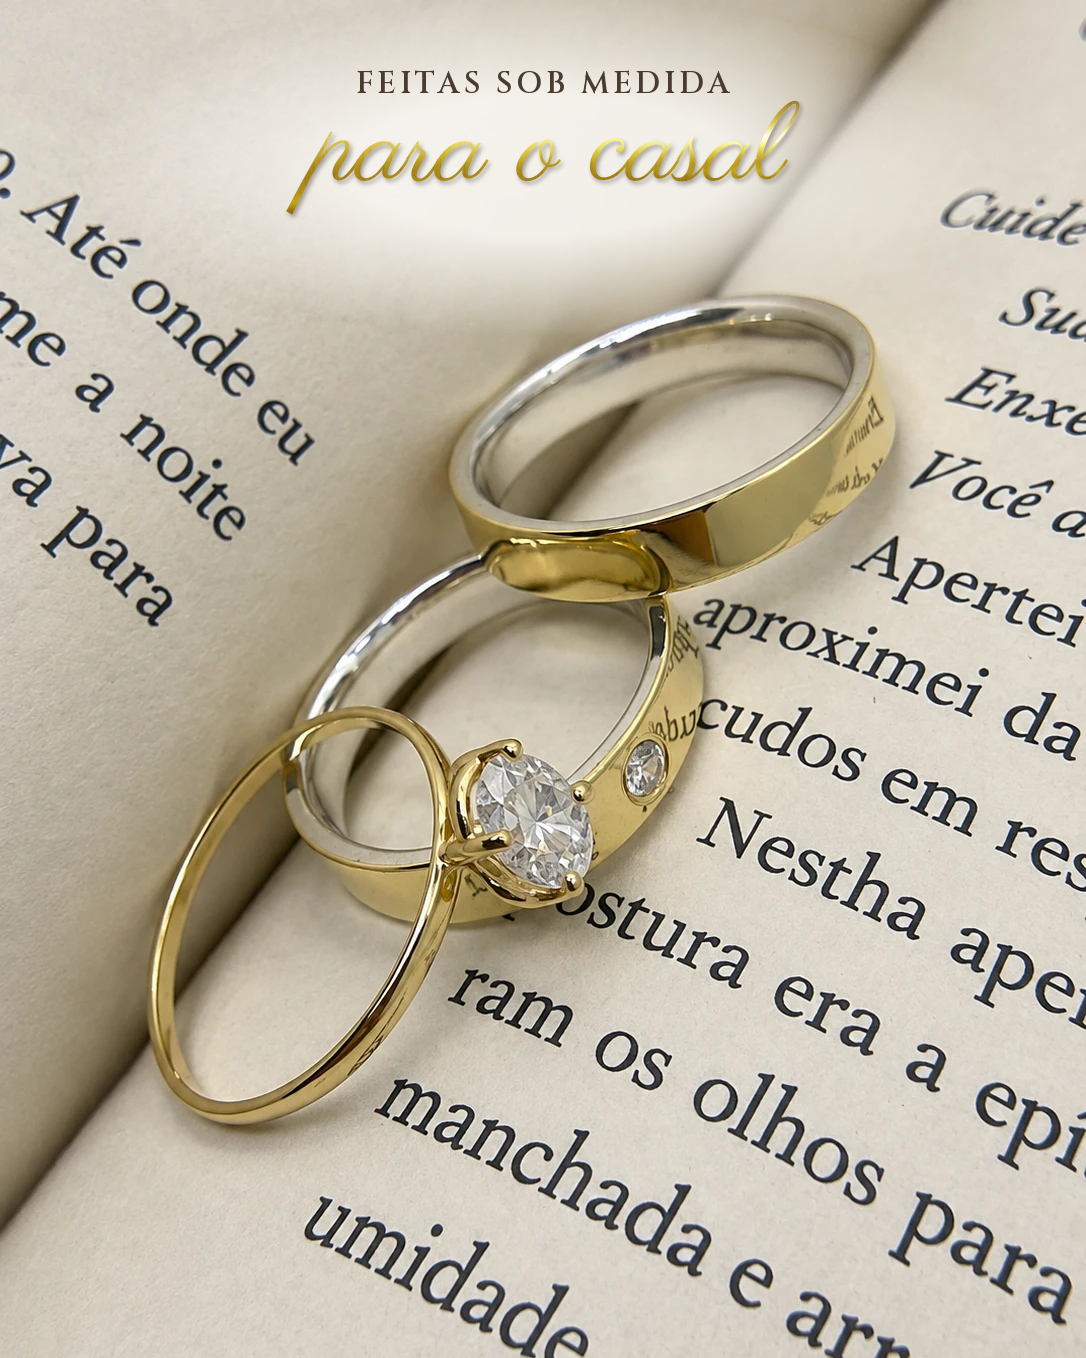
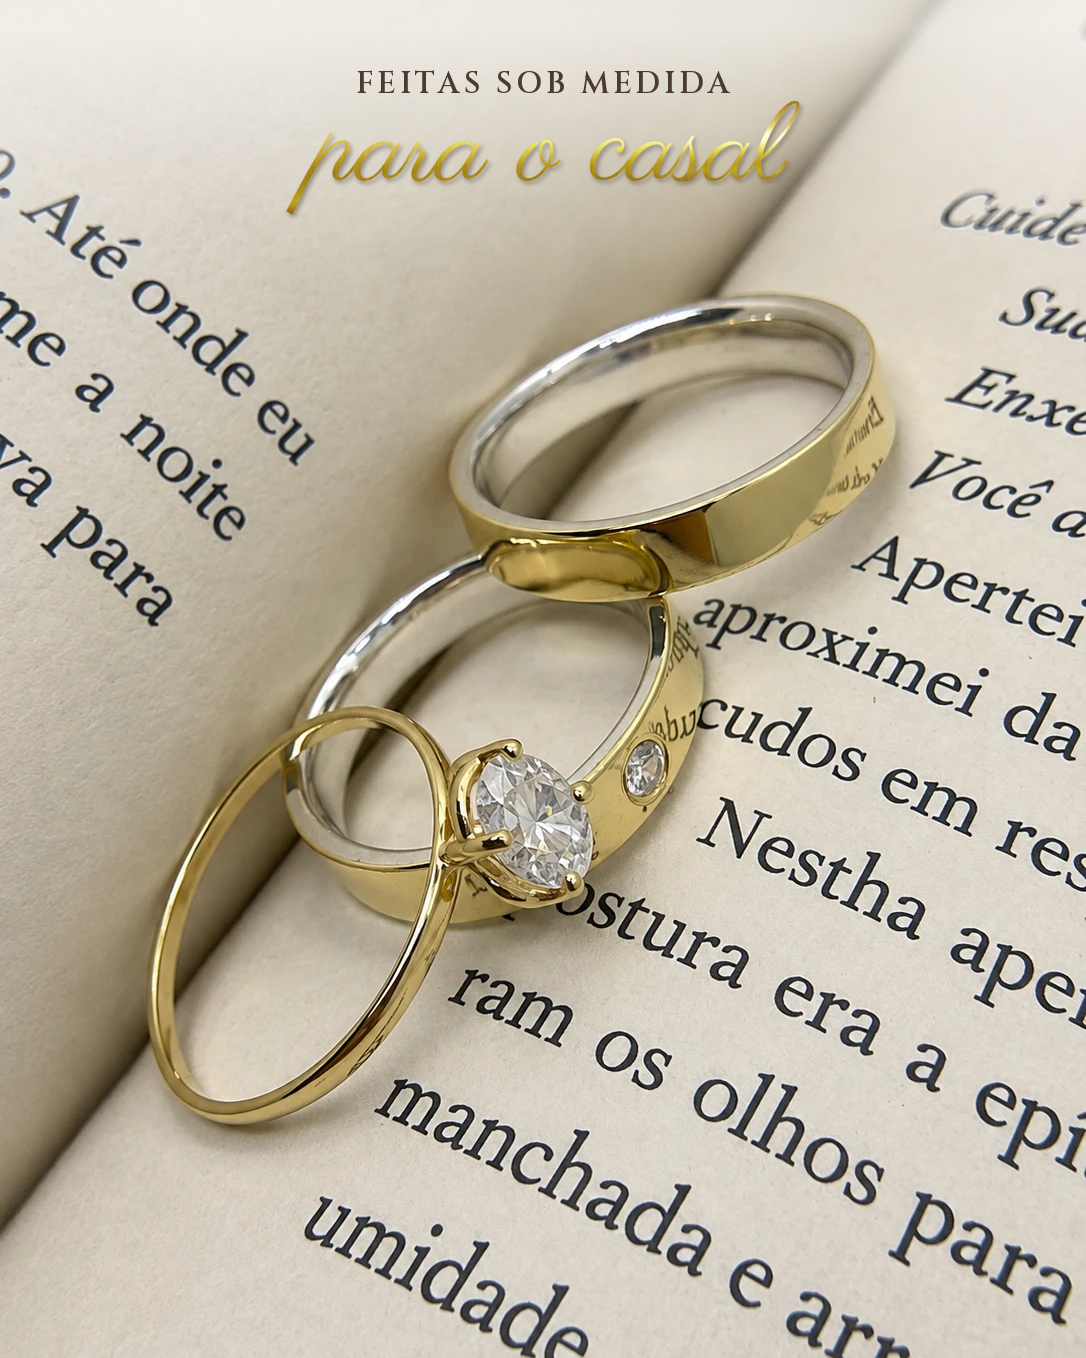
Carrossel das alianças: degradê leve em cima e embaixo, textos reposicionados
Claude-Session: https://claude.ai/code/session_01RLP9fKwVsDi588D8MrznBA

diff --git a/aliancas-revestidas/aliancas_rev.py b/aliancas-revestidas/aliancas_rev.py
@@ -31,22 +31,22 @@ def swipe(img):
     sw = solid_text('ARRASTE PARA O LADO  →', sans(18, 700), LABEL_COLOR, 2); paste(img, sw, W - M - ink_size(sw)[0], H - 66)
 
 # 1 — the pair + price
-s1 = base(53, 45); glow(s1, 290, 180, 440, 210); glow(s1, 300, 1205, 470, 200); glow(s1, 905, 1295, 240, 70)
+s1 = base(53, 45); band(s1, 0.02, 0.24, top=True, strength=0.72); band(s1, 0.77, 0.88, strength=0.92)
 title(s1, 'PAR DE', 'Alianças')
-sp = solid_text('REVESTIDAS · 4 MM · GARANTIA VITALÍCIA', caps_font(20, 600), BR, 2); paste(s1, sp, M, 1090); y = 1090 + ink_size(sp)[1]
-price_block(s1, M, y + 22, 'R$ 2.250', 'ou 10x de R$ 250,00 sem juros', size=56)
+sp = solid_text('REVESTIDAS · 4 MM · GARANTIA VITALÍCIA', caps_font(20, 600), BR, 2); paste(s1, sp, M, 1140); y = 1140 + ink_size(sp)[1]
+price_block(s1, M, y + 18, 'R$ 2.250', 'ou 10x de R$ 250,00 sem juros', size=54)
 swipe(s1); save_hq(s1, D + '01-par-de-aliancas.jpg')
 
 # 2 — with the solitaire: the full set
-s2 = base(52, 45); glow(s2, 270, 175, 400, 200); glow(s2, 320, 1225, 420, 130); glow(s2, 905, 1295, 240, 70)
+s2 = base(52, 45); band(s2, 0.02, 0.23, top=True, strength=0.72); band(s2, 0.80, 0.90, strength=0.92)
 title(s2, 'DO PEDIDO', 'ao altar', size=180)
-y = H - 175
+y = H - 140
 for t in ['Combine as alianças', 'com o seu solitário.']:
     lay = solid_text(t, caps_font(32, 500), INK, 1); paste(s2, lay, M, y); y += ink_size(lay)[1] + 12
 swipe(s2); save_hq(s2, D + '02-conjunto.jpg')
 
 # 3 — detail, made to measure
-s3 = base(55, 0); glow(s3, 543, 165, 470, 170)
+s3 = base(55, 0); band(s3, 0.02, 0.21, top=True, strength=0.72)
 y = 70
 lay = solid_text('FEITAS SOB MEDIDA', caps_font(30, 600), INK, 4); paste(s3, lay, W / 2, y, anchor='center'); y += ink_size(lay)[1] + 6
 paste(s3, gold_text('para o casal', script_font(110)), W / 2, y, anchor='center')
